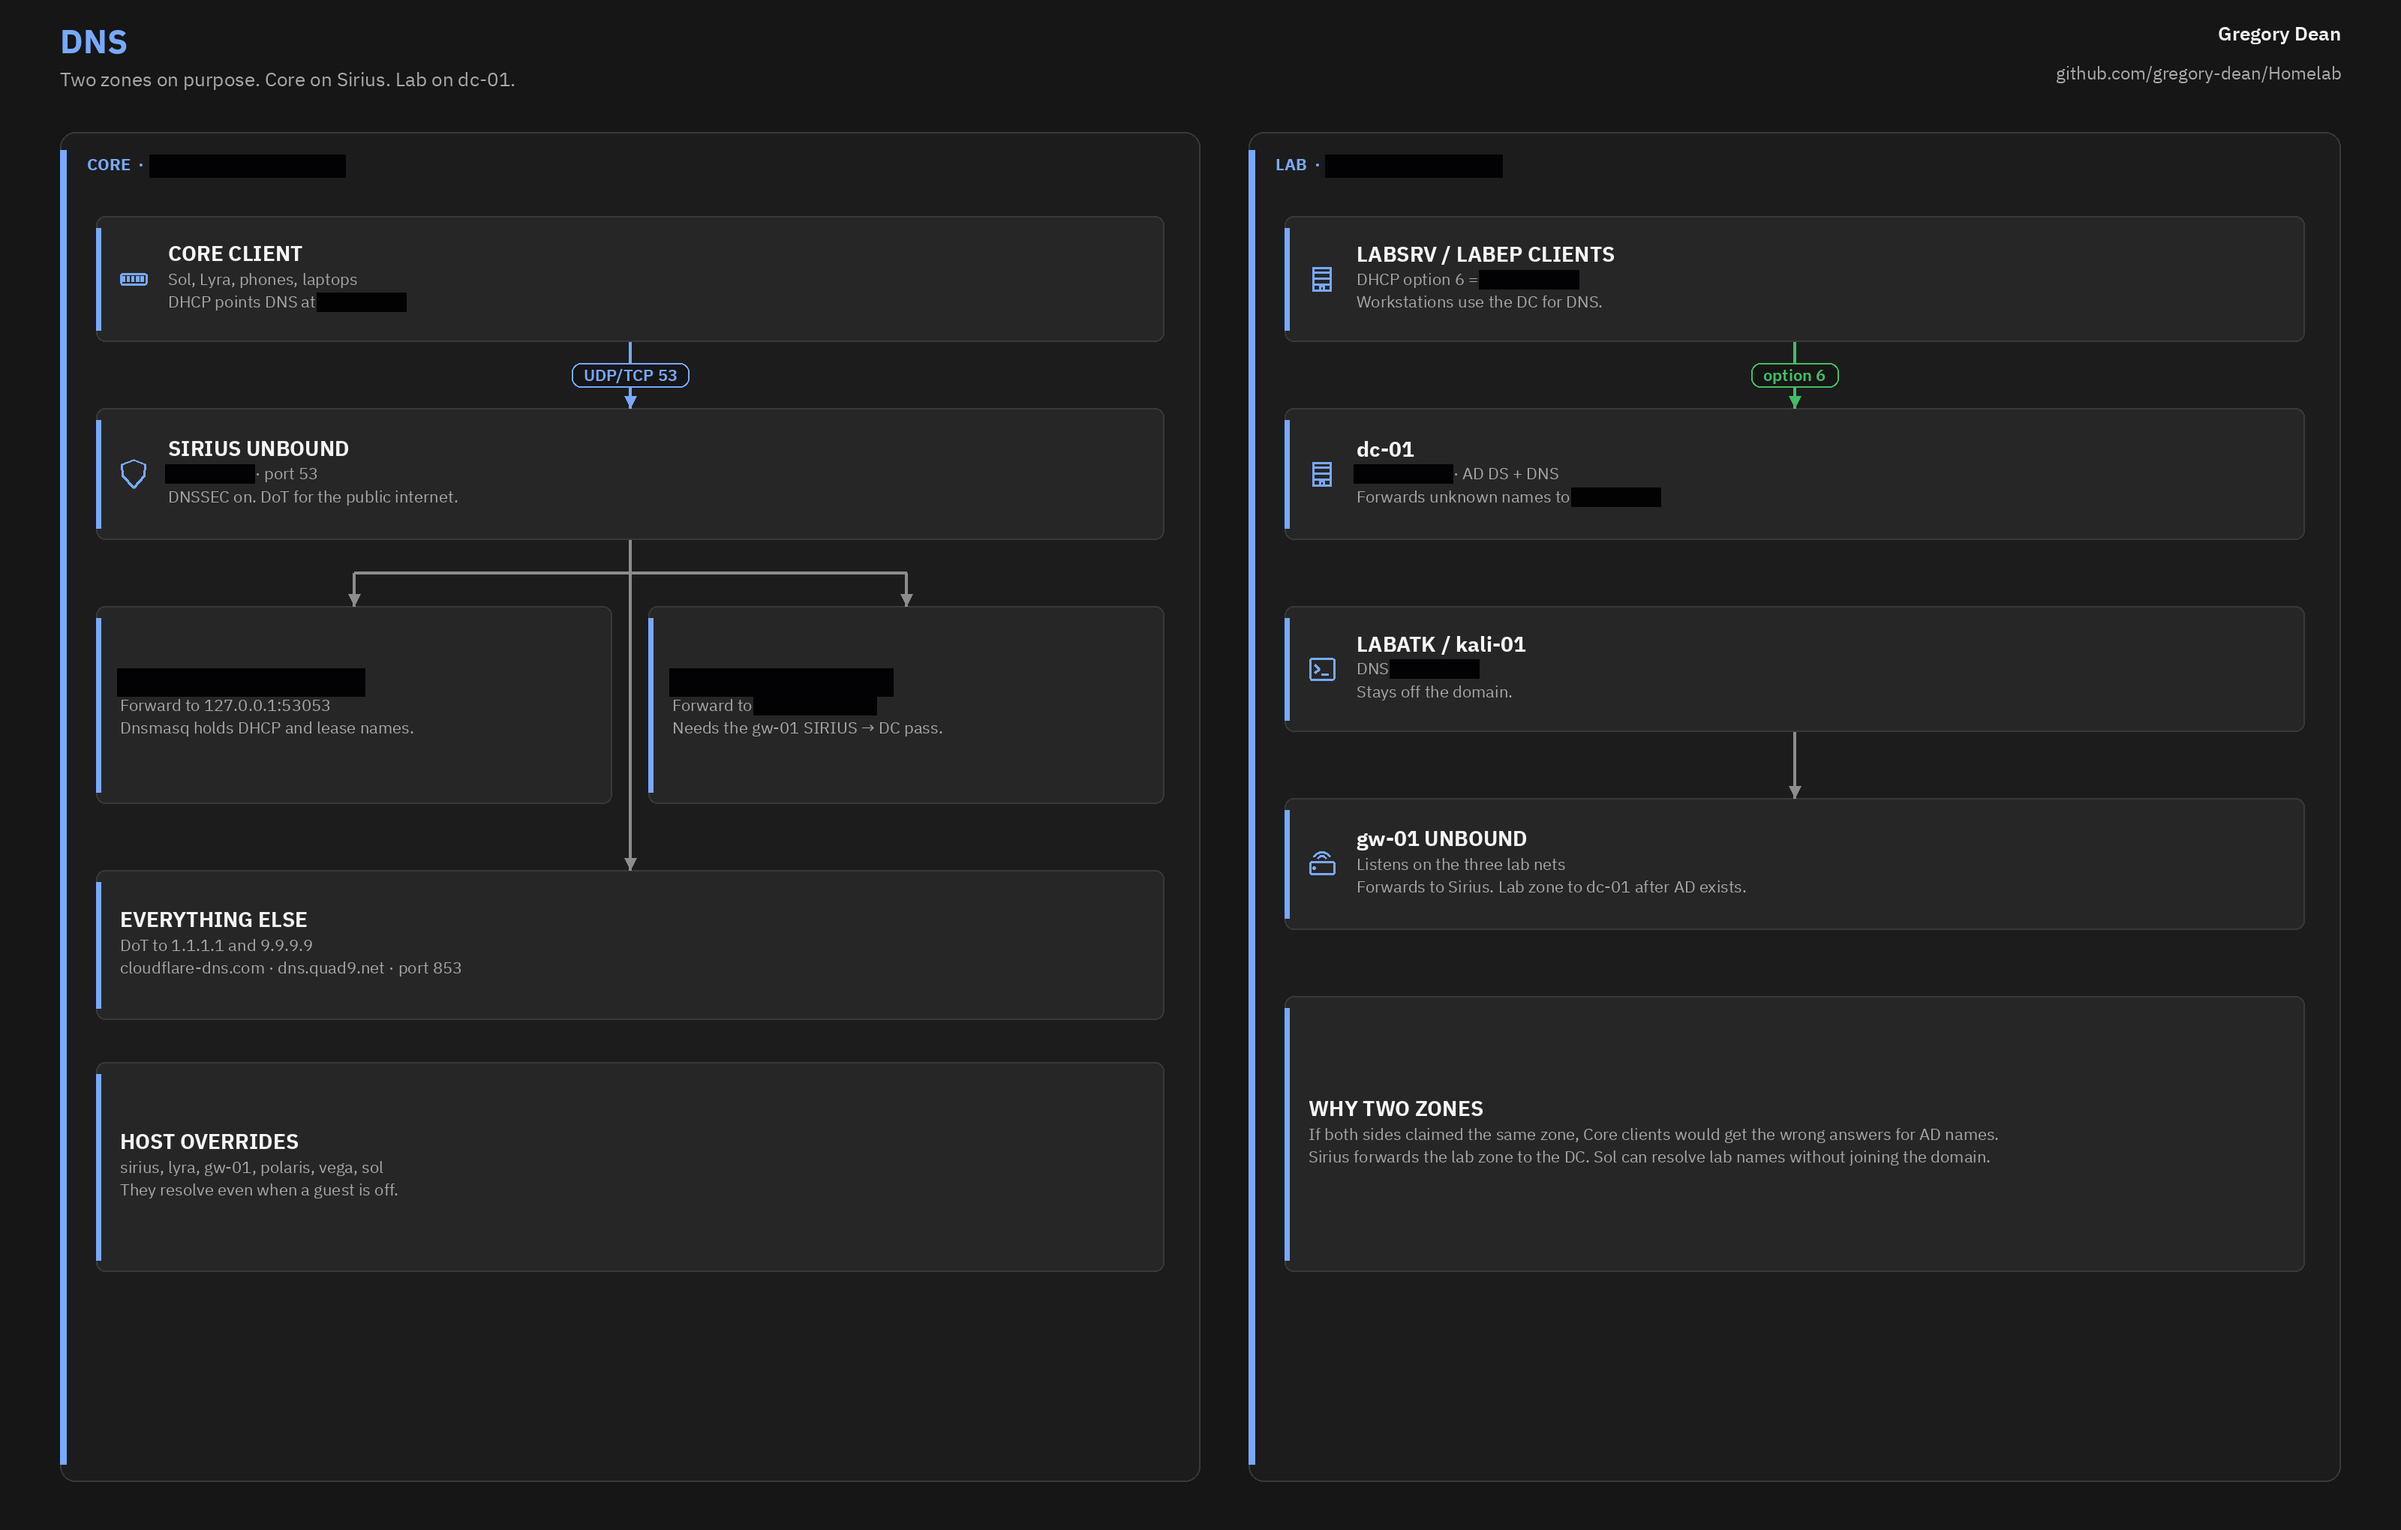
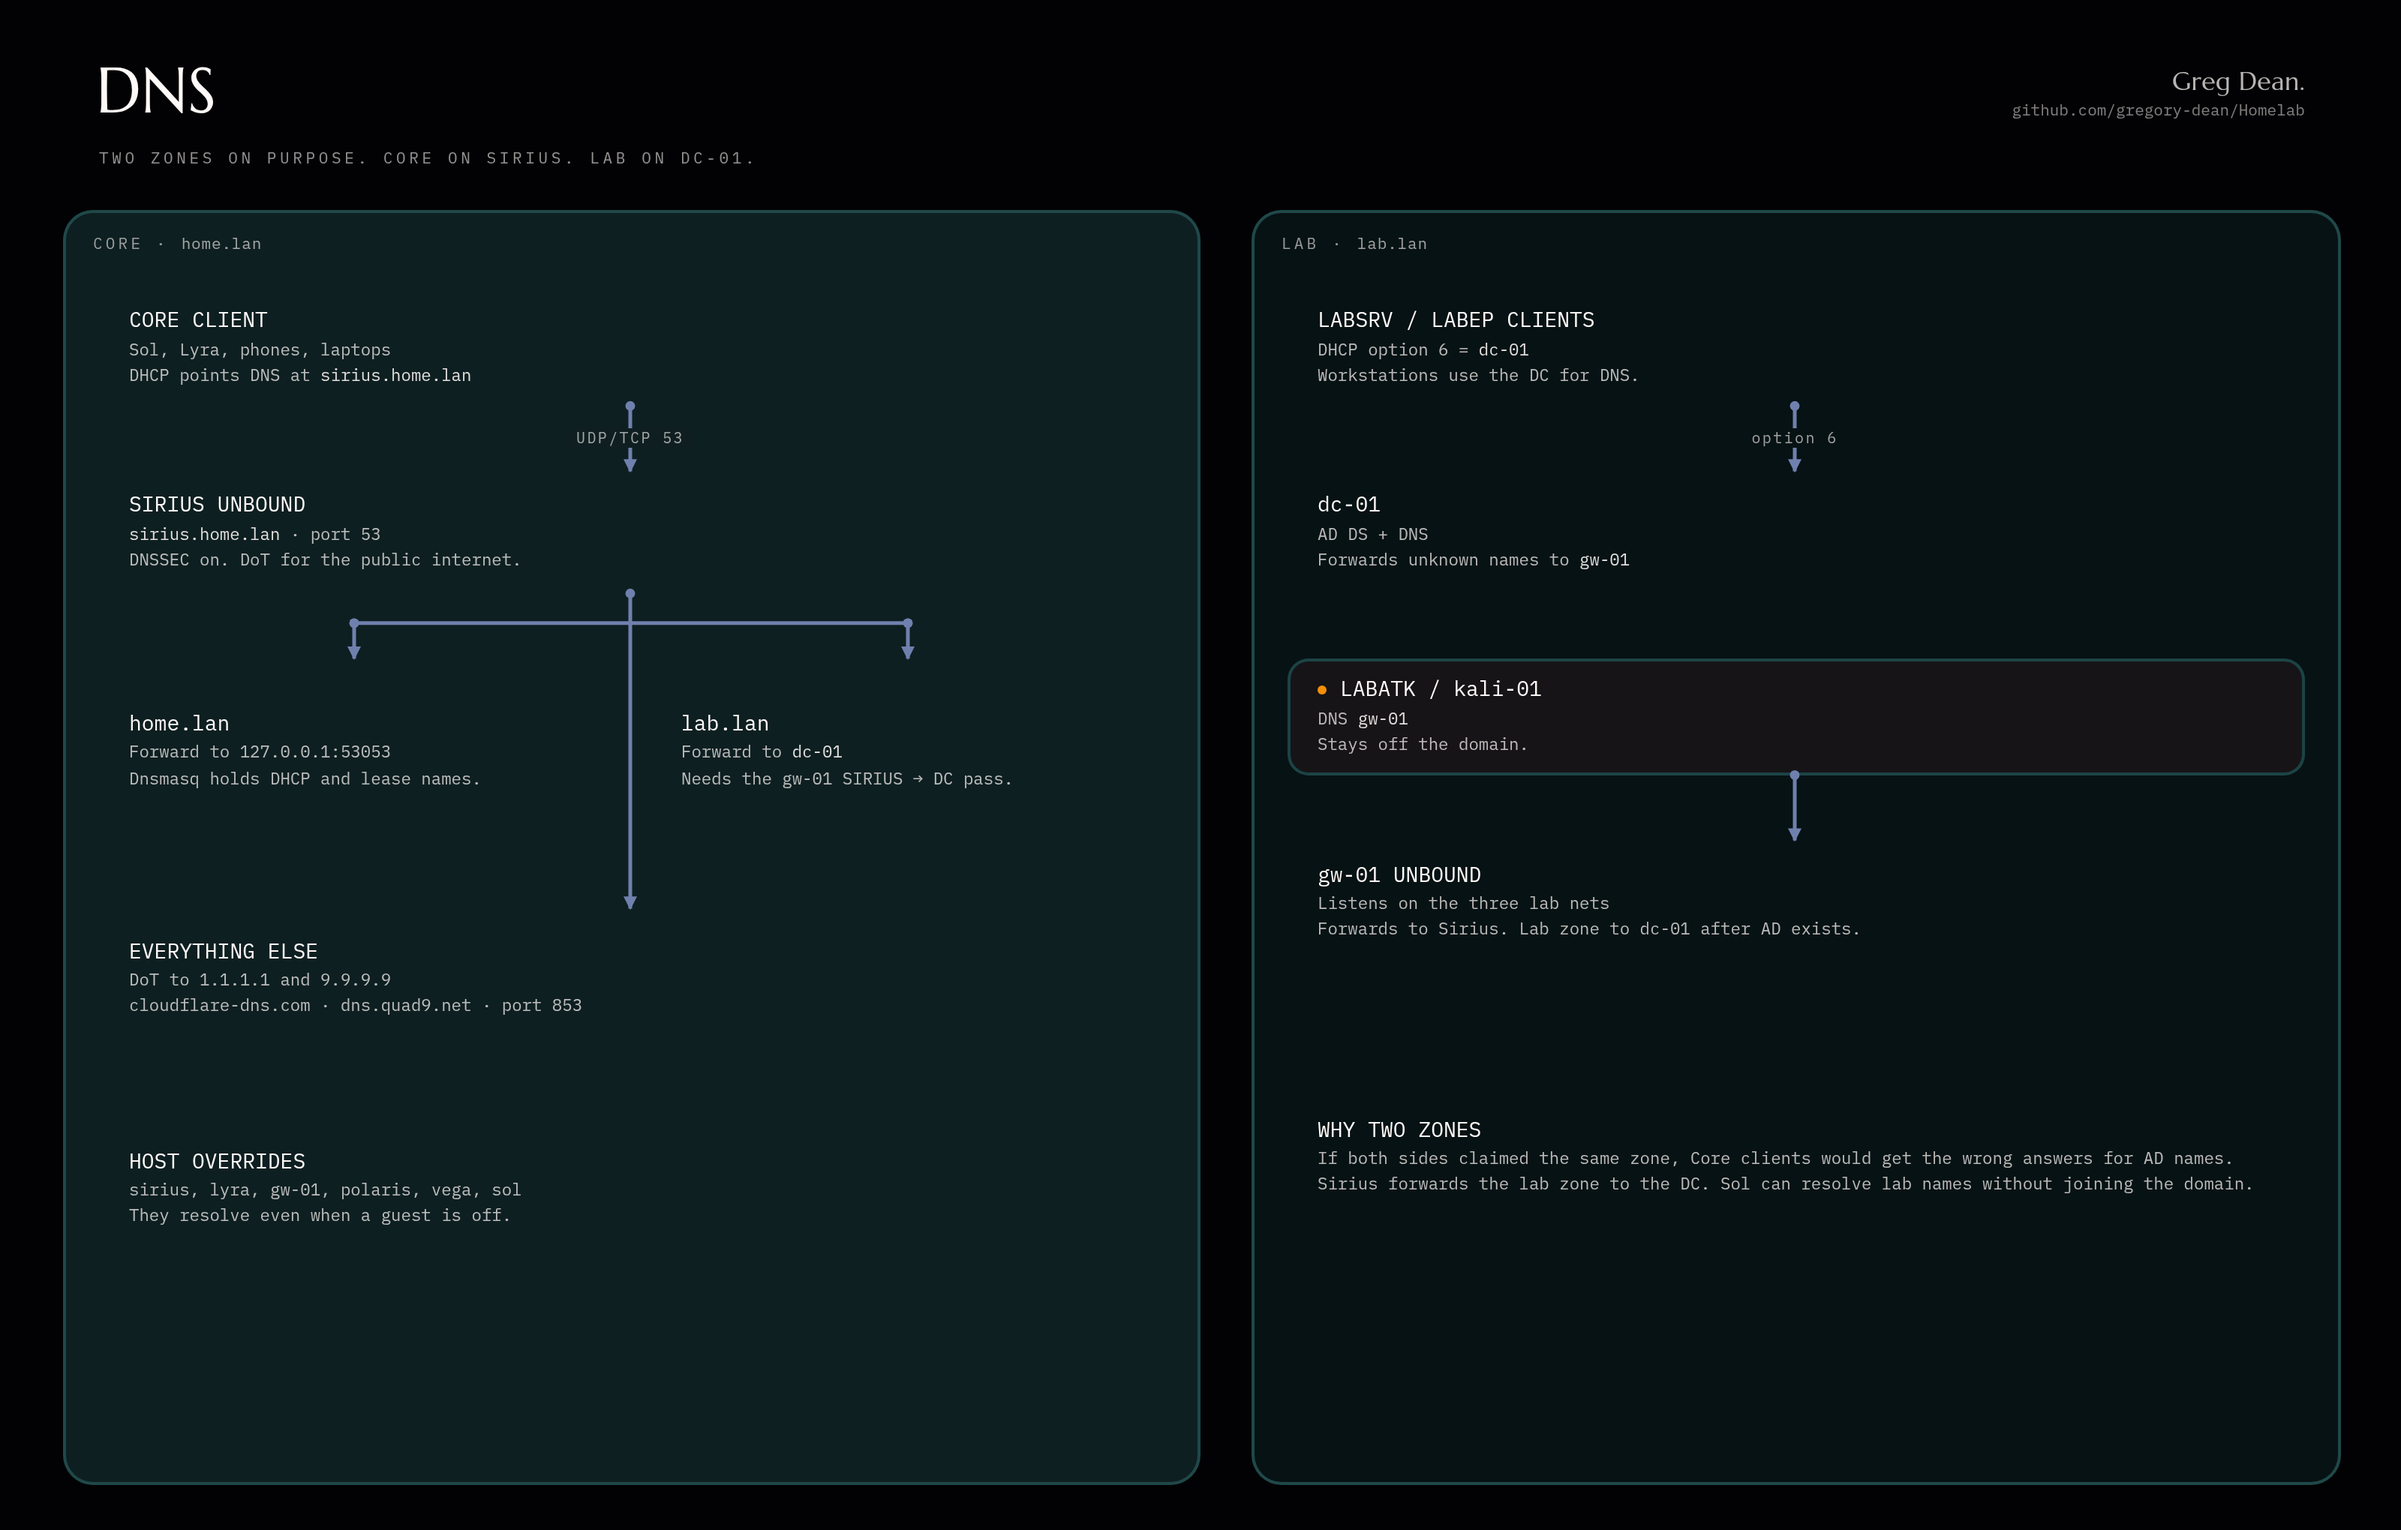
Use Ember Grain dark diagrams; drop light copies

diff --git a/images/README.md b/images/README.md
@@ -4,7 +4,7 @@ Photos and screenshots from the lab as it runs. The PNGs under `diagrams/` are t
 
 | Folder | Contents |
 | ------ | -------- |
-| `diagrams/` | Dark and light PNG exports |
+| `diagrams/` | Dark PNG exports (the rack sheet still has a light copy until it's redrawn) |
 | `rack/` | Photos of the T1 cabinet |
 | `hardware/` | Photos of the hosts, the NIC, and the riser |
 | `proxmox/` | Cluster UI, taken from Sol |
@@ -16,10 +16,10 @@ Photos and screenshots from the lab as it runs. The PNGs under `diagrams/` are t
 
 | File | What it shows |
 | ---- | ------------- |
-| `topology-dark.png` / `topology-light.png` | Physical path, Core hosts, lab overlay |
-| `segmentation-dark.png` / `segmentation-light.png` | Walls, gates, allow and deny |
+| `topology-dark.png` | Physical path, Core hosts, lab overlay |
+| `segmentation-dark.png` | Walls, gates, allow and deny |
 | `rack-dark.png` / `rack-light.png` | Front elevation and port map |
-| `dns-dark.png` / `dns-light.png` | The two DNS zones |
+| `dns-dark.png` | The two DNS zones |
 
 ## Rack
 

diff --git a/docs/architecture.md b/docs/architecture.md
@@ -2,15 +2,9 @@
 
 The lab is a 10 inch rack on my desk with an edge firewall, two Proxmox nodes, and the Windows desktop I manage all of it from. This page explains how those pieces connect and why the network is shaped the way it is.
 
-<picture>
-  <source media="(prefers-color-scheme: dark)" srcset="../images/diagrams/topology-dark.png">
-  <img alt="Homelab topology" src="../images/diagrams/topology-light.png">
-</picture>
+<img alt="Homelab topology" src="../images/diagrams/topology-dark.png">
 
-<picture>
-  <source media="(prefers-color-scheme: dark)" srcset="../images/diagrams/segmentation-dark.png">
-  <img alt="Network segmentation" src="../images/diagrams/segmentation-light.png">
-</picture>
+<img alt="Network segmentation" src="../images/diagrams/segmentation-dark.png">
 
 ## Physical path
 

diff --git a/README.md b/README.md
@@ -4,10 +4,7 @@ This is a full guide with detailed documentation of the 10 inch homelab I've bui
 
 I use this for all cybersecurity related projects and some personal projects like self hosting or game servers.
 
-<picture>
-  <source media="(prefers-color-scheme: dark)" srcset="images/diagrams/topology-dark.png">
-  <img alt="Homelab topology" src="images/diagrams/topology-light.png">
-</picture>
+<img alt="Homelab topology" src="images/diagrams/topology-dark.png">
 
 ![Front](images/rack/01-rack-front.jpg)
 

diff --git a/docs/network.md b/docs/network.md
@@ -2,10 +2,7 @@
 
 This is the address book for the lab: Core and lab addresses, DNS, the NIC assignments on Sirius, routes and NAT, firewall rule order, and the patch map.
 
-<picture>
-  <source media="(prefers-color-scheme: dark)" srcset="../images/diagrams/dns-dark.png">
-  <img alt="DNS flow" src="../images/diagrams/dns-light.png">
-</picture>
+<img alt="DNS flow" src="../images/diagrams/dns-dark.png">
 
 The segmentation view of the same network is in [architecture](architecture.md).
 
